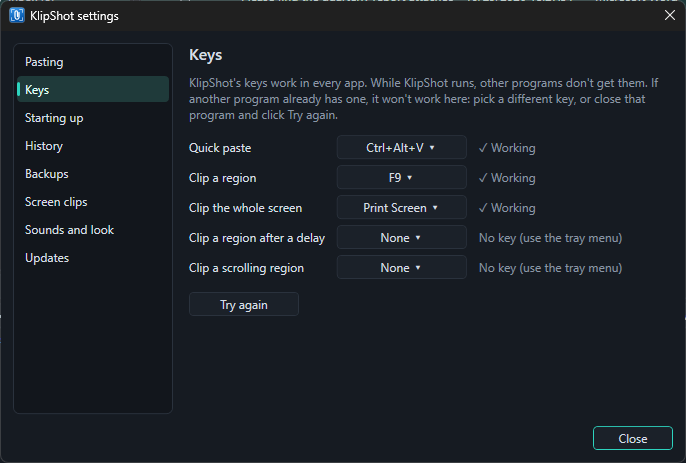
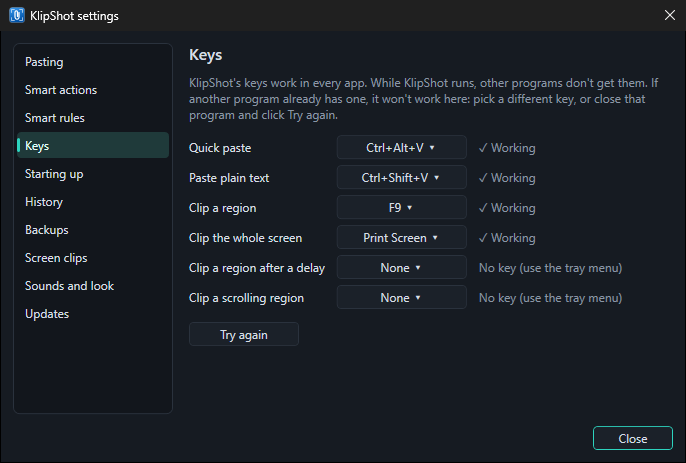
Guide: Keys screenshot with paste plain text

diff --git a/GUIDE.md b/GUIDE.md
@@ -398,7 +398,7 @@ In any app, while KlipShot runs:
 
 ### Changing keys
 
-![Tools → Settings → Keys, listing quick paste and the four screen clip keys, each with its key and whether it's working](docs/keys.png)
+![Tools → Settings → Keys, listing quick paste, paste plain text and the four screen clip keys, each with its key and whether it's working](docs/keys.png)
 
 - **Where:** Tools → Settings → **Keys** lists every KlipShot key: quick paste, paste plain text, clip a region, clip the whole screen, the delayed clip and the scrolling clip. The last two have no key at first.
 - **Choices:** screen clips can use F7, F8, F9, Ctrl+Shift+F9, Print Screen, Ctrl+Print Screen or none. Quick paste can use Ctrl+Alt+V, Alt+Shift+V, Ctrl+Shift+V, Ctrl+Alt+Space or none. Paste plain text can use Ctrl+Shift+V, Ctrl+Alt+Shift+V, Alt+Shift+V or none; if you had already given quick paste Ctrl+Shift+V, it keeps it and paste plain text starts with no key. A key another KlipShot feature already uses isn't offered.
